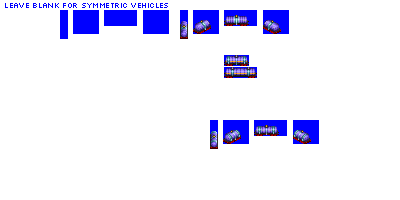
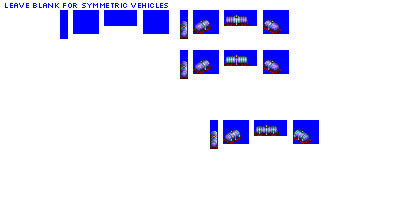
Change: add 3rd type of acid tank car

Changed region(s): [[0.45, 0.24, 0.72, 0.42]]

diff --git a/src/vehicles/pony/acid_tank_cars_type_3_pony.py b/src/vehicles/pony/acid_tank_cars_type_3_pony.py
@@ -4,56 +4,11 @@ from train.model_def import ModelDef
 def main(**kwargs):
     result = []
 
-    # --------------- narrow gauge -----------------------------------------------------------------
-
-    model_def = ModelDef(
-        schema_name="TankCarAcidType1",
-        base_numeric_id=25090,
-        gen=2,
-        subtype="A",
-        base_track_type="NG",
-        sprites_complete=True,
-    )
-
-    model_def.add_unit_def(unit_cls_name="FreightCarUnit", chassis="4_axle_ng_16px")
-
-    result.append(model_def)
-
-    model_def = ModelDef(
-        schema_name="TankCarAcidType1",
-        base_numeric_id=26820,
-        gen=3,
-        subtype="A",
-        base_track_type="NG",
-        sprites_complete=True,
-    )
-
-    model_def.add_unit_def(
-        unit_cls_name="FreightCarUnit", chassis="4_axle_ng_sparse_16px"
-    )
-
-    result.append(model_def)
-
-    model_def = ModelDef(
-        schema_name="TankCarAcidType1",
-        base_numeric_id=25910,
-        gen=3,
-        subtype="B",
-        base_track_type="NG",
-        sprites_complete=True,
-    )
-
-    model_def.add_unit_def(
-        unit_cls_name="FreightCarUnit", chassis="4_axle_ng_sparse_24px"
-    )
-
-    result.append(model_def)
-
     # --------------- standard gauge ---------------------------------------------------------------
 
     model_def = ModelDef(
-        schema_name="TankCarAcidType1",
-        base_numeric_id=25170,
+        schema_name="TankCarAcidType3",
+        base_numeric_id=63870,
         gen=2,
         subtype="A",
         sprites_complete=True,
@@ -64,8 +19,8 @@ def main(**kwargs):
     result.append(model_def)
 
     model_def = ModelDef(
-        schema_name="TankCarAcidType1",
-        base_numeric_id=26250,
+        schema_name="TankCarAcidType3",
+        base_numeric_id=63880,
         gen=3,
         subtype="A",
         sprites_complete=True,
@@ -76,8 +31,8 @@ def main(**kwargs):
     result.append(model_def)
 
     model_def = ModelDef(
-        schema_name="TankCarAcidType1",
-        base_numeric_id=25190,
+        schema_name="TankCarAcidType3",
+        base_numeric_id=63890,
         gen=3,
         subtype="B",
         sprites_complete=True,
@@ -88,8 +43,8 @@ def main(**kwargs):
     result.append(model_def)
 
     model_def = ModelDef(
-        schema_name="TankCarAcidType1",
-        base_numeric_id=25210,
+        schema_name="TankCarAcidType3",
+        base_numeric_id=64070,
         gen=4,
         subtype="A",
         sprites_complete=True,
@@ -100,8 +55,8 @@ def main(**kwargs):
     result.append(model_def)
 
     model_def = ModelDef(
-        schema_name="TankCarAcidType1",
-        base_numeric_id=23520,
+        schema_name="TankCarAcidType3",
+        base_numeric_id=64080,
         gen=4,
         subtype="B",
         sprites_complete=True,
@@ -114,8 +69,8 @@ def main(**kwargs):
     result.append(model_def)
 
     model_def = ModelDef(
-        schema_name="TankCarAcidType1",
-        base_numeric_id=25340,
+        schema_name="TankCarAcidType3",
+        base_numeric_id=64090,
         gen=4,
         subtype="C",
         sprites_complete=True,
@@ -128,8 +83,8 @@ def main(**kwargs):
     result.append(model_def)
 
     model_def = ModelDef(
-        schema_name="TankCarAcidType1",
-        base_numeric_id=25590,
+        schema_name="TankCarAcidType3",
+        base_numeric_id=64100,
         gen=5,
         subtype="A",
         sprites_complete=True,
@@ -142,8 +97,8 @@ def main(**kwargs):
     result.append(model_def)
 
     model_def = ModelDef(
-        schema_name="TankCarAcidType1",
-        base_numeric_id=25280,
+        schema_name="TankCarAcidType3",
+        base_numeric_id=64110,
         gen=5,
         subtype="B",
         sprites_complete=True,
@@ -156,8 +111,8 @@ def main(**kwargs):
     result.append(model_def)
 
     model_def = ModelDef(
-        schema_name="TankCarAcidType1",
-        base_numeric_id=25370,
+        schema_name="TankCarAcidType3",
+        base_numeric_id=64120,
         gen=5,
         subtype="C",
         sprites_complete=True,

diff --git a/src/gestalt_graphics/graphics_constants.py b/src/gestalt_graphics/graphics_constants.py
@@ -656,6 +656,43 @@ acid_tank_car_type_1_livery_recolour_map_weathered = {
     160: CC1 + 6,
     161: CC1 + 7,
 }
+acid_tank_car_type_3_livery_recolour_map = {
+    136: CC1,
+    137: CC1 + 1,
+    138: CC1 + 2,
+    139: CC1 + 3,
+    140: CC1 + 4,
+    141: CC1 + 5,
+    142: CC1 + 6,
+    143: CC1 + 7,
+    154: 104,
+    155: 2,
+    156: 25,
+    157: 17,
+    158: 18,
+    159: 19,
+    160: 20,
+    161: 10,
+}
+acid_tank_car_type_3_livery_recolour_map_weathered = {
+    # should be kept in sync with the SULP map in polar fox tanker maps
+    136: CC1,
+    137: CC1 + 1,
+    138: CC1 + 2,
+    139: CC1 + 3,
+    140: CC1 + 4,
+    141: CC1 + 5,
+    142: CC1 + 6,
+    143: CC1 + 7,
+    154: 1,
+    155: 2,
+    156: 106,
+    157: 17,
+    158: 18,
+    159: 7,
+    160: 20,
+    161: 10,
+}
 tank_car_livery_recolour_map = {
     136: CC1,
     137: CC1 + 1,

diff --git a/src/train/schemas.py b/src/train/schemas.py
@@ -9116,6 +9116,23 @@ class TankCarAcidType2(TankCarAcidBase):
         self.gestalt_graphics.weathered_states = weathered_states
 
 
+class TankCarAcidType3(TankCarAcidBase):
+    """
+    Visual variant of the standard tank car, same refits, different default cargos.
+    """
+
+    model_id_root = "acid_tank_car_type_3"
+
+    def __init__(self, **kwargs):
+        super().__init__(**kwargs)
+        # Graphics configuration
+        weathered_states = {
+            "unweathered": graphics_constants.acid_tank_car_type_3_livery_recolour_map,
+            "weathered": graphics_constants.acid_tank_car_type_3_livery_recolour_map_weathered,
+        }
+        self.gestalt_graphics.weathered_states = weathered_states
+
+
 class TankCarAcidRandomised(RandomisedCarVanillaMixin, TankCarAcidBase):
     """
     Random choice of acid tank car sprites.

diff --git a/src/vehicles/pony/acid_tank_cars_type_2_pony.py b/src/vehicles/pony/acid_tank_cars_type_2_pony.py
@@ -108,7 +108,7 @@ def main(**kwargs):
     )
 
     model_def.add_unit_def(
-        unit_cls_name="FreightCarUnit", chassis="2_axle_gapped_greebled_24px"
+        unit_cls_name="FreightCarUnit", chassis="4_axle_gapped_greebled_24px"
     )
 
     result.append(model_def)
@@ -150,7 +150,7 @@ def main(**kwargs):
     )
 
     model_def.add_unit_def(
-        unit_cls_name="FreightCarUnit", chassis="2_axle_gapped_greebled_24px"
+        unit_cls_name="FreightCarUnit", chassis="4_axle_gapped_greebled_24px"
     )
 
     result.append(model_def)

diff --git a/src/rosters/pony.py b/src/rosters/pony.py
@@ -238,6 +238,7 @@ wagon_module_names_with_roster_ids = {
     "acid_tank_cars_randomised": "pony",
     "acid_tank_cars_type_1": "pony",
     "acid_tank_cars_type_2": "pony",
+    "acid_tank_cars_type_3": "pony",
     "aggregate_bulk_open_cars_type_1": "pony",
     "aggregate_bulk_open_cars_type_2": "pony",
     "aggregate_bulk_open_cars_type_3": "pony",

diff --git a/src/global_constants.py b/src/global_constants.py
@@ -133,6 +133,7 @@ wagon_module_name_stems = [
     "product_tank_cars_randomised",
     "acid_tank_cars_type_1",
     "acid_tank_cars_type_2",
+    "acid_tank_cars_type_3",
     "acid_tank_cars_randomised",
     "chemical_cargo_tank_combos",
     "pressure_tank_cars_type_1",

diff --git a/src/vehicles/pony/pressure_tank_cars_type_3_pony.py b/src/vehicles/pony/pressure_tank_cars_type_3_pony.py
@@ -93,7 +93,7 @@ def main(**kwargs):
     )
 
     model_def.add_unit_def(
-        unit_cls_name="FreightCarUnit", chassis="4_axle_gapped_greebled_24px"
+        unit_cls_name="FreightCarUnit", chassis="2_axle_gapped_greebled_24px"
     )
 
     result.append(model_def)
